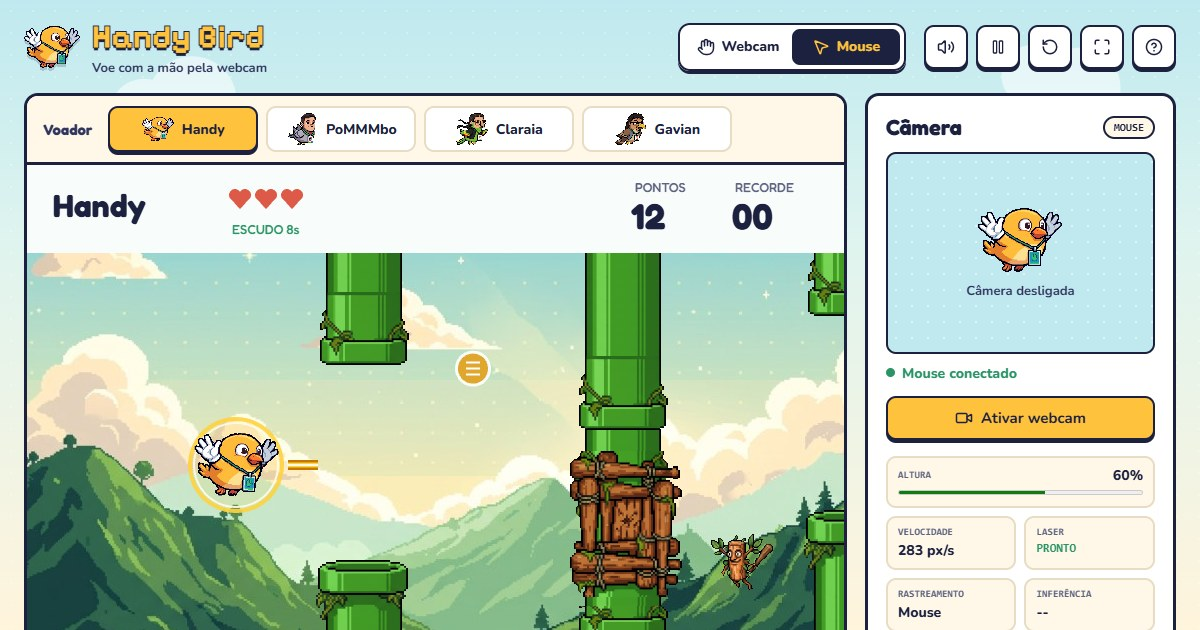
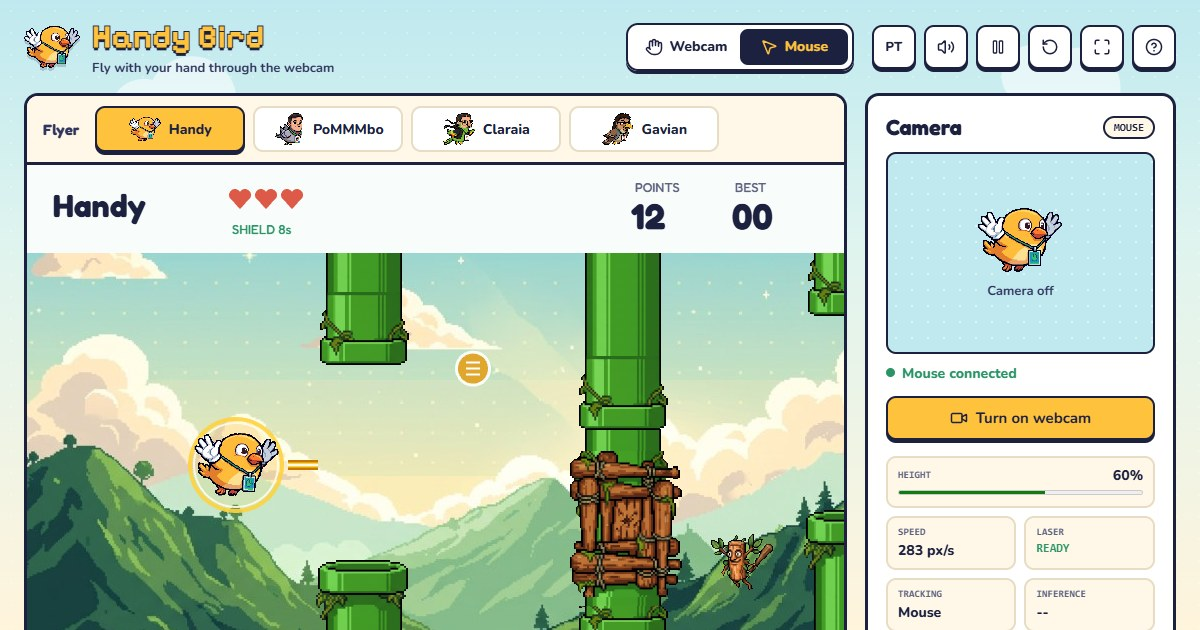
Improve fullscreen for presentations and fix small issues
- Fullscreen hides the "How to play" section and scales the game and the
  camera panel to fill the screen height; F toggles it, and the button
  shows whether it will enter or exit
- Blocker sound now uses a counter, so it plays even when another broken
  pipe leaves the screen in the same frame
- Stage attribute is only written when the map changes
- English preview image for the README and link sharing

diff --git a/web/js/app.js b/web/js/app.js
@@ -36,6 +36,18 @@ function showCameraToggle() {
   buttonIcon(ui["camera-toggle"], on ? "video-off" : "video", t(on ? "camera.turnOff" : "start.camera"));
 }
 function showLanguage() { ui.language.dataset.current = language(); }
+function showFullscreen() {
+  const label = t(document.fullscreenElement ? "action.exitFullscreen" : "action.fullscreen");
+  ui.fullscreen.setAttribute("aria-label", label);
+  ui.fullscreen.title = `${label} (F)`;
+  buttonIcon(ui.fullscreen, document.fullscreenElement ? "minimize" : "maximize");
+}
+// Tela cheia da pagina toda: o CSS esconde o "Como jogar" e aumenta o jogo para
+// caber na altura da tela, mantendo o painel da camera ao lado.
+async function toggleFullscreen() {
+  try { if (document.fullscreenElement) await document.exitFullscreen(); else await document.documentElement.requestFullscreen(); }
+  catch { showFailure(t("error.fullscreen")); }
+}
 
 function selectCharacter(character) {
   if (!Object.hasOwn(characters, character)) return;
@@ -240,7 +252,8 @@ function updateUi(time, input) {
   ui["laser-value"].classList.toggle("cooling", game.shotCooldown > 0);
   const stage = game.currentStage;
   setText(ui["stage-label"], t(`stage.${stage.key}`));
-  document.getElementById("app").dataset.stage = stage.key;
+  const app = document.getElementById("app");
+  if (app.dataset.stage !== stage.key) app.dataset.stage = stage.key;
   ui.overlay.classList.toggle("victory", game.state === "won");
   setText(ui["inference-value"], state.mode === "camera" ? inferenceText() : "--");
   ui.calibrate.disabled = !!state.calibration;
@@ -288,17 +301,15 @@ ui.sound.addEventListener("click", toggleSound);
 ui.language.addEventListener("click", () => setLanguage(language() === "en" ? "pt" : "en"));
 // Textos que o JavaScript escreve (e nao so o HTML marcado) tambem mudam de idioma.
 onLanguageChange(() => {
-  showSound(); showCameraToggle(); setBadge(badge); showStatus(); showLanguage();
+  showSound(); showCameraToggle(); setBadge(badge); showStatus(); showLanguage(); showFullscreen();
   lastUi = 0;
   state.scene?.translate();
 });
 for (const type of ["pointerdown", "keydown"]) window.addEventListener(type, () => sound.unlock(), { capture: true });
 for (const id of ["restart", "side-restart"]) ui[id].addEventListener("click", restart);
 for (const id of ["pause", "side-pause"]) ui[id].addEventListener("click", togglePause);
-ui.fullscreen.addEventListener("click", async () => {
-  try { if (document.fullscreenElement) await document.exitFullscreen(); else await document.documentElement.requestFullscreen(); }
-  catch { showFailure(t("error.fullscreen")); }
-});
+ui.fullscreen.addEventListener("click", toggleFullscreen);
+document.addEventListener("fullscreenchange", showFullscreen);
 ui.shoot.addEventListener("pointerdown", (event) => { event.preventDefault(); state.pointerFist = true; ui.shoot.setPointerCapture(event.pointerId); });
 window.addEventListener("pointerup", () => { state.pointerFist = false; });
 window.addEventListener("pointercancel", () => { state.pointerFist = false; });
@@ -309,13 +320,14 @@ window.addEventListener("keydown", (event) => {
   if (event.code === "KeyP") togglePause();
   if (event.code === "KeyR") restart();
   if (event.code === "KeyM") toggleSound();
+  if (event.code === "KeyF") toggleFullscreen();
 });
 window.addEventListener("keyup", (event) => { if (event.code === "Space") state.spaceFist = false; });
 window.addEventListener("blur", () => { state.spaceFist = false; state.pointerFist = false; if (state.active && !state.game.finished) state.game.paused = true; });
 document.addEventListener("visibilitychange", () => { if (document.hidden) { state.spaceFist = false; state.pointerFist = false; if (state.active && !state.game.finished) state.game.paused = true; } });
 window.addEventListener("pagehide", stopCamera);
 compact.addEventListener("change", placePreview);
-window.addEventListener("load", () => { showSound(); icons(); });
+window.addEventListener("load", () => { showSound(); showFullscreen(); icons(); });
 
 translatePage();
 showLanguage();

diff --git a/web/js/tests.js b/web/js/tests.js
@@ -238,6 +238,9 @@ export function runTests() {
   played.length = 0; heard.boss.health -= 1; audio.observe(heard);
   heard.boss = null; heard.state = "over"; audio.observe(heard);
   check(played.join() === "hit,victory,crash", "sound follows boss hit, defeat and crash");
+  played.length = 0; heard.pipes = [{ x: 400, gapY: 330, gap: 180, red: true, destroyed: false }]; heard.lasers = [{ x: 380, y: 330 }];
+  heard.updateLasers(0.02); heard.pipes = []; audio.observe(heard);
+  check(heard.broken === 1 && played.join() === "shatter", "breaking a blocker plays its sound even after the pipe leaves");
   played.length = 0; heard.restart(); audio.observe(heard);
   check(played.length === 0, "restart is silent");
   heard.state = "playing"; heard.lives = 3; heard.shield = true; audio.observe(heard);
@@ -294,6 +297,8 @@ export function runTests() {
   check(tripleT.displayHeight === config.bossHeight && Math.abs(tripleT.displayWidth - config.bossWidth) < 30 && tripleT.texture.getSourceImage().width === 234, "new Triple T sprite keeps its proportions");
   const hudGame = playing(); hudGame.shield = true; scene.drawHud(hudGame);
   check(scene.powerText.text === `${t("power.shield")} 10s`, "HUD counts down the shield");
+  const fullscreenButton = document.getElementById("fullscreen");
+  check(fullscreenButton.title === `${t("action.fullscreen")} (F)` && fullscreenButton.getAttribute("aria-label") === t("action.fullscreen"), "fullscreen button names its shortcut");
   // Ingles e portugues: a pagina, o placar do jogo e o botao de idioma trocam juntos.
   const originalLanguage = language();
   try {

diff --git a/web/index.html b/web/index.html
@@ -45,7 +45,7 @@
           <button id="sound" class="icon-button" title="Sound (M)" aria-label="Turn sound off" aria-pressed="true" data-i18n-title="sound.title"><i data-lucide="volume-2"></i></button>
           <button id="pause" class="icon-button" title="Pause (P)" aria-label="Pause"><i data-lucide="pause"></i></button>
           <button id="restart" class="icon-button" title="Restart (R)" aria-label="Restart" data-i18n-title="action.restartTitle" data-i18n-label="action.restart"><i data-lucide="rotate-ccw"></i></button>
-          <button id="fullscreen" class="icon-button" title="Fullscreen" aria-label="Fullscreen" data-i18n-title="action.fullscreen" data-i18n-label="action.fullscreen"><i data-lucide="maximize"></i></button>
+          <button id="fullscreen" class="icon-button" title="Fullscreen (F)" aria-label="Fullscreen"><i data-lucide="maximize"></i></button>
           <a class="icon-button help-link" href="#how-to-play" title="How to play" aria-label="How to play" data-i18n-title="action.help" data-i18n-label="action.help"><i data-lucide="circle-help"></i></a>
         </div>
       </header>

diff --git a/web/js/sound.js b/web/js/sound.js
@@ -58,7 +58,7 @@ export class Sound {
   observe(game) {
     const current = {
       score: game.score, cooldown: game.shotCooldown, state: game.state,
-      destroyed: game.pipes.filter((pipe) => pipe.destroyed).length,
+      broken: game.broken,
       bossHealth: game.boss?.health ?? null,
       lives: game.lives, invulnerable: game.invulnerable, collected: game.collected, defeated: game.defeated,
     };
@@ -66,7 +66,7 @@ export class Sound {
     this.snapshot = current;
     if (!previous || current.score < previous.score || (["over", "won"].includes(previous.state) && current.state !== previous.state)) return;
     if (current.cooldown > previous.cooldown) this.laser();
-    if (current.destroyed > previous.destroyed) this.shatter();
+    if (current.broken > previous.broken) this.shatter();
     if (current.score > previous.score) this.point();
     if (previous.bossHealth === null && current.bossHealth !== null) this.alarm();
     else if (previous.bossHealth !== null && current.bossHealth === null) this.victory();

diff --git a/web/style.css b/web/style.css
@@ -149,7 +149,13 @@ progress { width: 200px; height: 10px; accent-color: var(--green); }
 .tips { display: flex; flex-wrap: wrap; gap: 8px 22px; margin: 16px 0 0; padding: 0; list-style: none; font-size: 14px; font-weight: 700; color: var(--ink-soft); }
 .tips li { display: flex; align-items: center; gap: 7px; }
 .site-footer { margin-top: 18px; text-align: center; font: 700 12px var(--mono); color: var(--ink-soft); }
-body:fullscreen { overflow: auto; }
+/* Tela cheia (para apresentar): so o jogo e o painel da camera, do maior tamanho
+   que cabe na altura da tela. A altura do conteudo cresce ~0,54 px por pixel de
+   largura, mais ~192 px fixos (barra do topo, seletor e rodape do jogo). */
+@media (min-width: 821px) {
+  :root:fullscreen #app { width: min(100%, calc((100vh - 192px) * 1.849)); padding-bottom: 8px; }
+  :root:fullscreen .how, :root:fullscreen .site-footer { display: none; }
+}
 
 @media (max-width: 1080px) {
   .how-grid { grid-template-columns: repeat(2, minmax(0, 1fr)); }

diff --git a/web/js/game.js b/web/js/game.js
@@ -230,6 +230,7 @@ export class Game {
     this.enemies = [];
     this.enemyTimer = config.firstEnemyDelay;
     this.defeated = 0;
+    this.broken = 0;
     this.pipesCreated = 0;
     this.nextPowerAt = Infinity;
     this.nextRedAt = this.redInterval();
@@ -422,7 +423,7 @@ export class Game {
         this.impacts.push({ x: bossRectangle(this.boss).left, y: laser.y, remaining: 0.24 });
         if (this.boss.health <= 0) this.defeatBoss();
       } else if (hit) {
-        if (hitBarrier) hit.destroyed = true;
+        if (hitBarrier) { hit.destroyed = true; this.broken += 1; }
         this.impacts.push({ x: Math.max(previousX, hit.x), y: laser.y, remaining: 0.24 });
       } else if (laser.x < config.width) active.push(laser);
     }

diff --git a/web/js/i18n.js b/web/js/i18n.js
@@ -15,6 +15,7 @@ const texts = {
     "action.restart": "Restart",
     "action.restartTitle": "Restart (R)",
     "action.fullscreen": "Fullscreen",
+    "action.exitFullscreen": "Exit fullscreen",
     "action.help": "How to play",
     "action.shoot": "Fire laser",
     "game.label": "Game",
@@ -121,6 +122,7 @@ const texts = {
     "action.restart": "Novo voo",
     "action.restartTitle": "Novo voo (R)",
     "action.fullscreen": "Tela cheia",
+    "action.exitFullscreen": "Sair da tela cheia",
     "action.help": "Como jogar",
     "action.shoot": "Disparar laser",
     "game.label": "Jogo",

diff --git a/README.pt-BR.md b/README.pt-BR.md
@@ -68,7 +68,7 @@ jogo congela até ela voltar, sem perder nada.
 | Fechar a mão | Atirar (abra e feche de novo para o próximo tiro) |
 | Sinal de paz ✌ | Pausar; fechar a mão retoma |
 | `Espaço` ou clique (modo Mouse) | Atirar |
-| `P` · `R` · `M` | Pausar · novo voo · som |
+| `P` · `R` · `M` · `F` | Pausar · novo voo · som · tela cheia |
 
 Sem webcam, o **modo Mouse** permite testar o jogo com o cursor. Como clicar é bem
 mais fácil do que fechar a mão, esse modo é 25% mais rápido e o laser recarrega em 1 s.

diff --git a/README.md b/README.md
@@ -67,7 +67,7 @@ freezes until it comes back, with no penalty.
 | Close your hand | Shoot (open and close again for the next shot) |
 | Peace sign ✌ | Pause; closing your hand resumes |
 | `Space` or click (Mouse mode) | Shoot |
-| `P` · `R` · `M` | Pause · restart · sound |
+| `P` · `R` · `M` · `F` | Pause · restart · sound · fullscreen |
 
 Without a webcam, **Mouse mode** lets you try the game with the cursor. Since
 clicking is much easier than closing your hand, this mode is 25% faster and the
